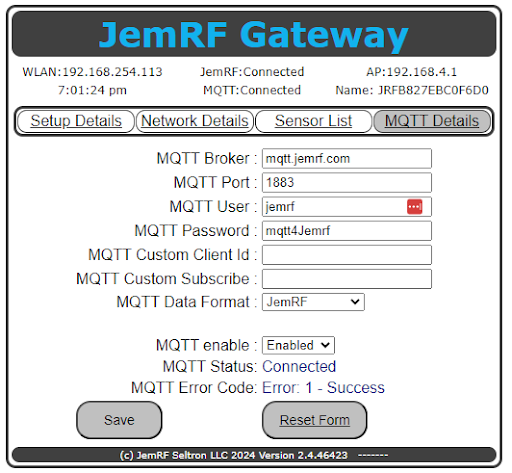
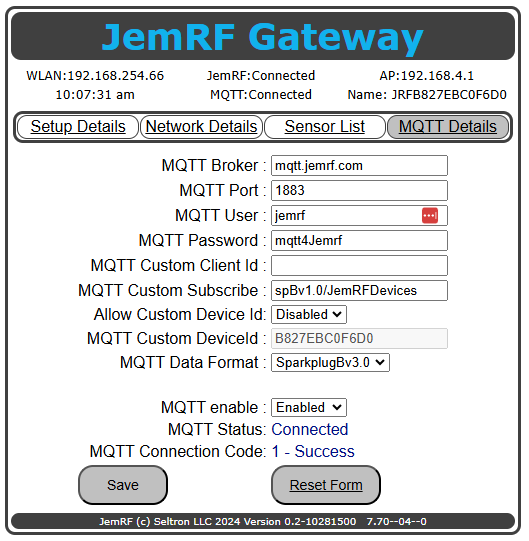
update for MQTT change ID

Changed region(s): [[0.0, 0.0, 1.0, 1.0], [0.8438, 0.4736, 0.875, 0.5032]]

diff --git a/pages/sgateway/sgw-setup.md b/pages/sgateway/sgw-setup.md
@@ -74,11 +74,11 @@ The third section of the Health page shows the internal temperatures of the Proc
 The **RF Receiver Status** shows the current count of messages processed. This is the same total count shown at the bottom of the Sensor List page.  It also shows a restart date for the RF processor if an error is detected, and the RF receiver has to be reset. If this date differs from the Sensor Receiver date time it could indicate an internal error was corrected.
 
 ### Section 4
-The last section (**Send MQTT Status**) enables sending system health messages to the MQTT Broker for remote monitoring. A zero (0) disables the function. Thw value is in minutes.  The full set of system health messages is sent on the initial connection. After that, only the health messages indicating a change in status are sent.
+The last section (**Send MQTT Status**) enables sending system health messages to the MQTT Broker for remote monitoring. A zero (0) disables the function. The value is in minutes.  The full set of system health messages is sent on the initial connection. After that, only the health messages indicating a change in status are sent.
 
 Changes in status include:
 - Internal applications failing or restarting.
-- Temperatures above warning limit
+- Internal CPU Temperatures above warning limit
 - No data being processed for 5 minutes
 - Connection to the HTTP or MQTT server is lost
 

diff --git a/pages/sgateway/sgw-mqtt.md b/pages/sgateway/sgw-mqtt.md
@@ -34,6 +34,10 @@ The image below shows the MQTT Details page with a successful connection to the 
 
 {% include note.html content="The Error Code will remain showing the status of the last connection even when the MQTT is disabled.."%}
 
+
+{% include note.html content="
+For changes to be made it is best to Disable MQTT before making changes."%}
+
 ##  MQTT Formats
 The MQTT Agent in the Smart Gateway has four data format options.
 - 1 - JemRF             - Send data using the device Id as part of the subscription and the raw data sent from the sensor.
@@ -145,3 +149,20 @@ The data value example would be:
     }],
     "seq": 2
 }
+
+## Custom Device Id
+A special feature of the Smart Gateway allows for changing the Device Id.
+By changing the device Id allows replacing an existing Gateway and being able to set the Device Id. The result is the MQTT subscribe reference remains the same event with a different hardware device.
+To change the Device Id, you must first Enable the option as shown in Figure 2.
+
+{% include note.html content="
+For changes to be made it is best to Disable MQTT before making changes."%}
+
+
+<img src="images/sgw-mqtt-customid.png" width="425"/>
+**Figure 2  The MQTT Enable change Device Id screen.**
+
+Once Enabled you can change the Device Id.
+
+<img src="images/sgw-mqtt=setid.png" width="425"/>
+**Figure 3 The MQTT Option to change Device Id screen.**
